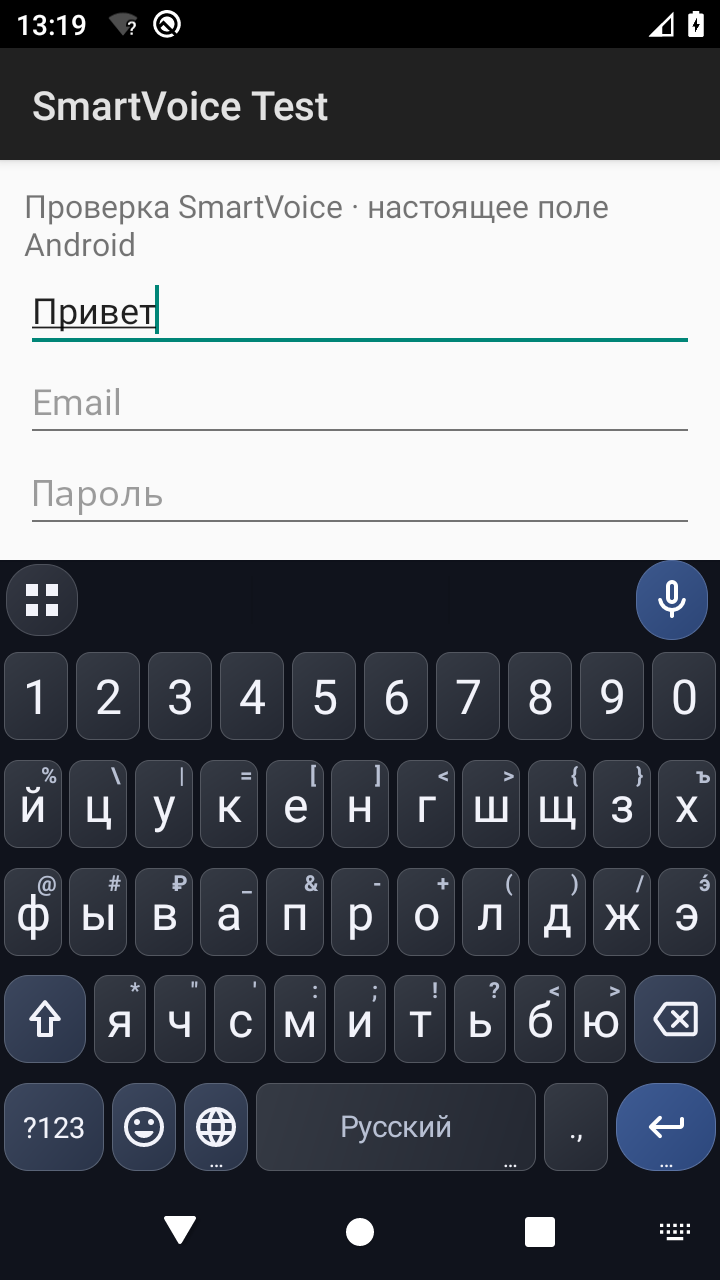
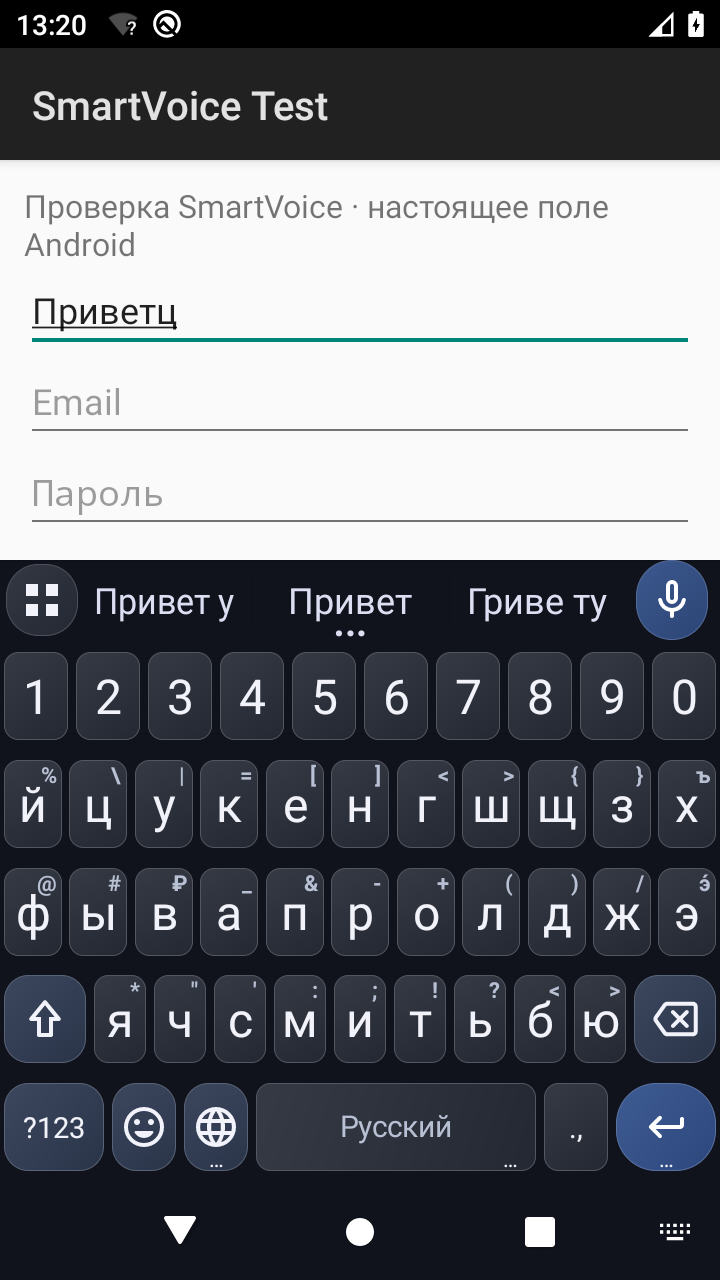
Verify Russian candidates through real key touch and update evidence

diff --git a/docs/validation/STATUS_RU.md b/docs/validation/STATUS_RU.md
@@ -20,7 +20,7 @@
 
 Программный эмулятор без аппаратного ускорения не измеряет плавность. API 31–36, разные размеры/ориентации, drag-and-drop, все принимающие приложения и реальная русская диктовка требуют проверки на устройстве. Эмулятор API 35 в этой среде завершался до установки приложения; это ограничение среды, а не результат проверки APK.
 
-В текущем эмуляторе при русском вводе строка кандидатов не дала слов (enabled=true, count=0); существующий механизм подсказок сохранён, но три рабочих русских кандидата этим запуском не подтверждены. Требуется отдельно проверить наличие словаря и подсказки на телефоне. Удалён дополнительный auto-correction span; стандартное подчёркивание composing-текста принимающим Android-полем может оставаться.
+Подтверждено появление трёх русских кандидатов после настоящего касания буквенной клавиши; это видно в `01_main.png`. Служебный ввод через debug broadcast с координатами 0,0 не давал кандидатов и оказался недостаточным способом проверки. Словарь main:ru загружен. Проверку качества предложений нужно продолжить на телефоне. Удалён дополнительный auto-correction span; стандартное подчёркивание composing-текста принимающим Android-полем может оставаться.
 
 Реальный звук не записывался. **WER/CER и задержка не измерены**, улучшение точности в процентах не заявляется. В `tools/voice-evaluation/` есть 30 фраз, CSV и скрипт сравнения до/после. Порядок проверки: `PHONE_TEST_RU.md`.
 
